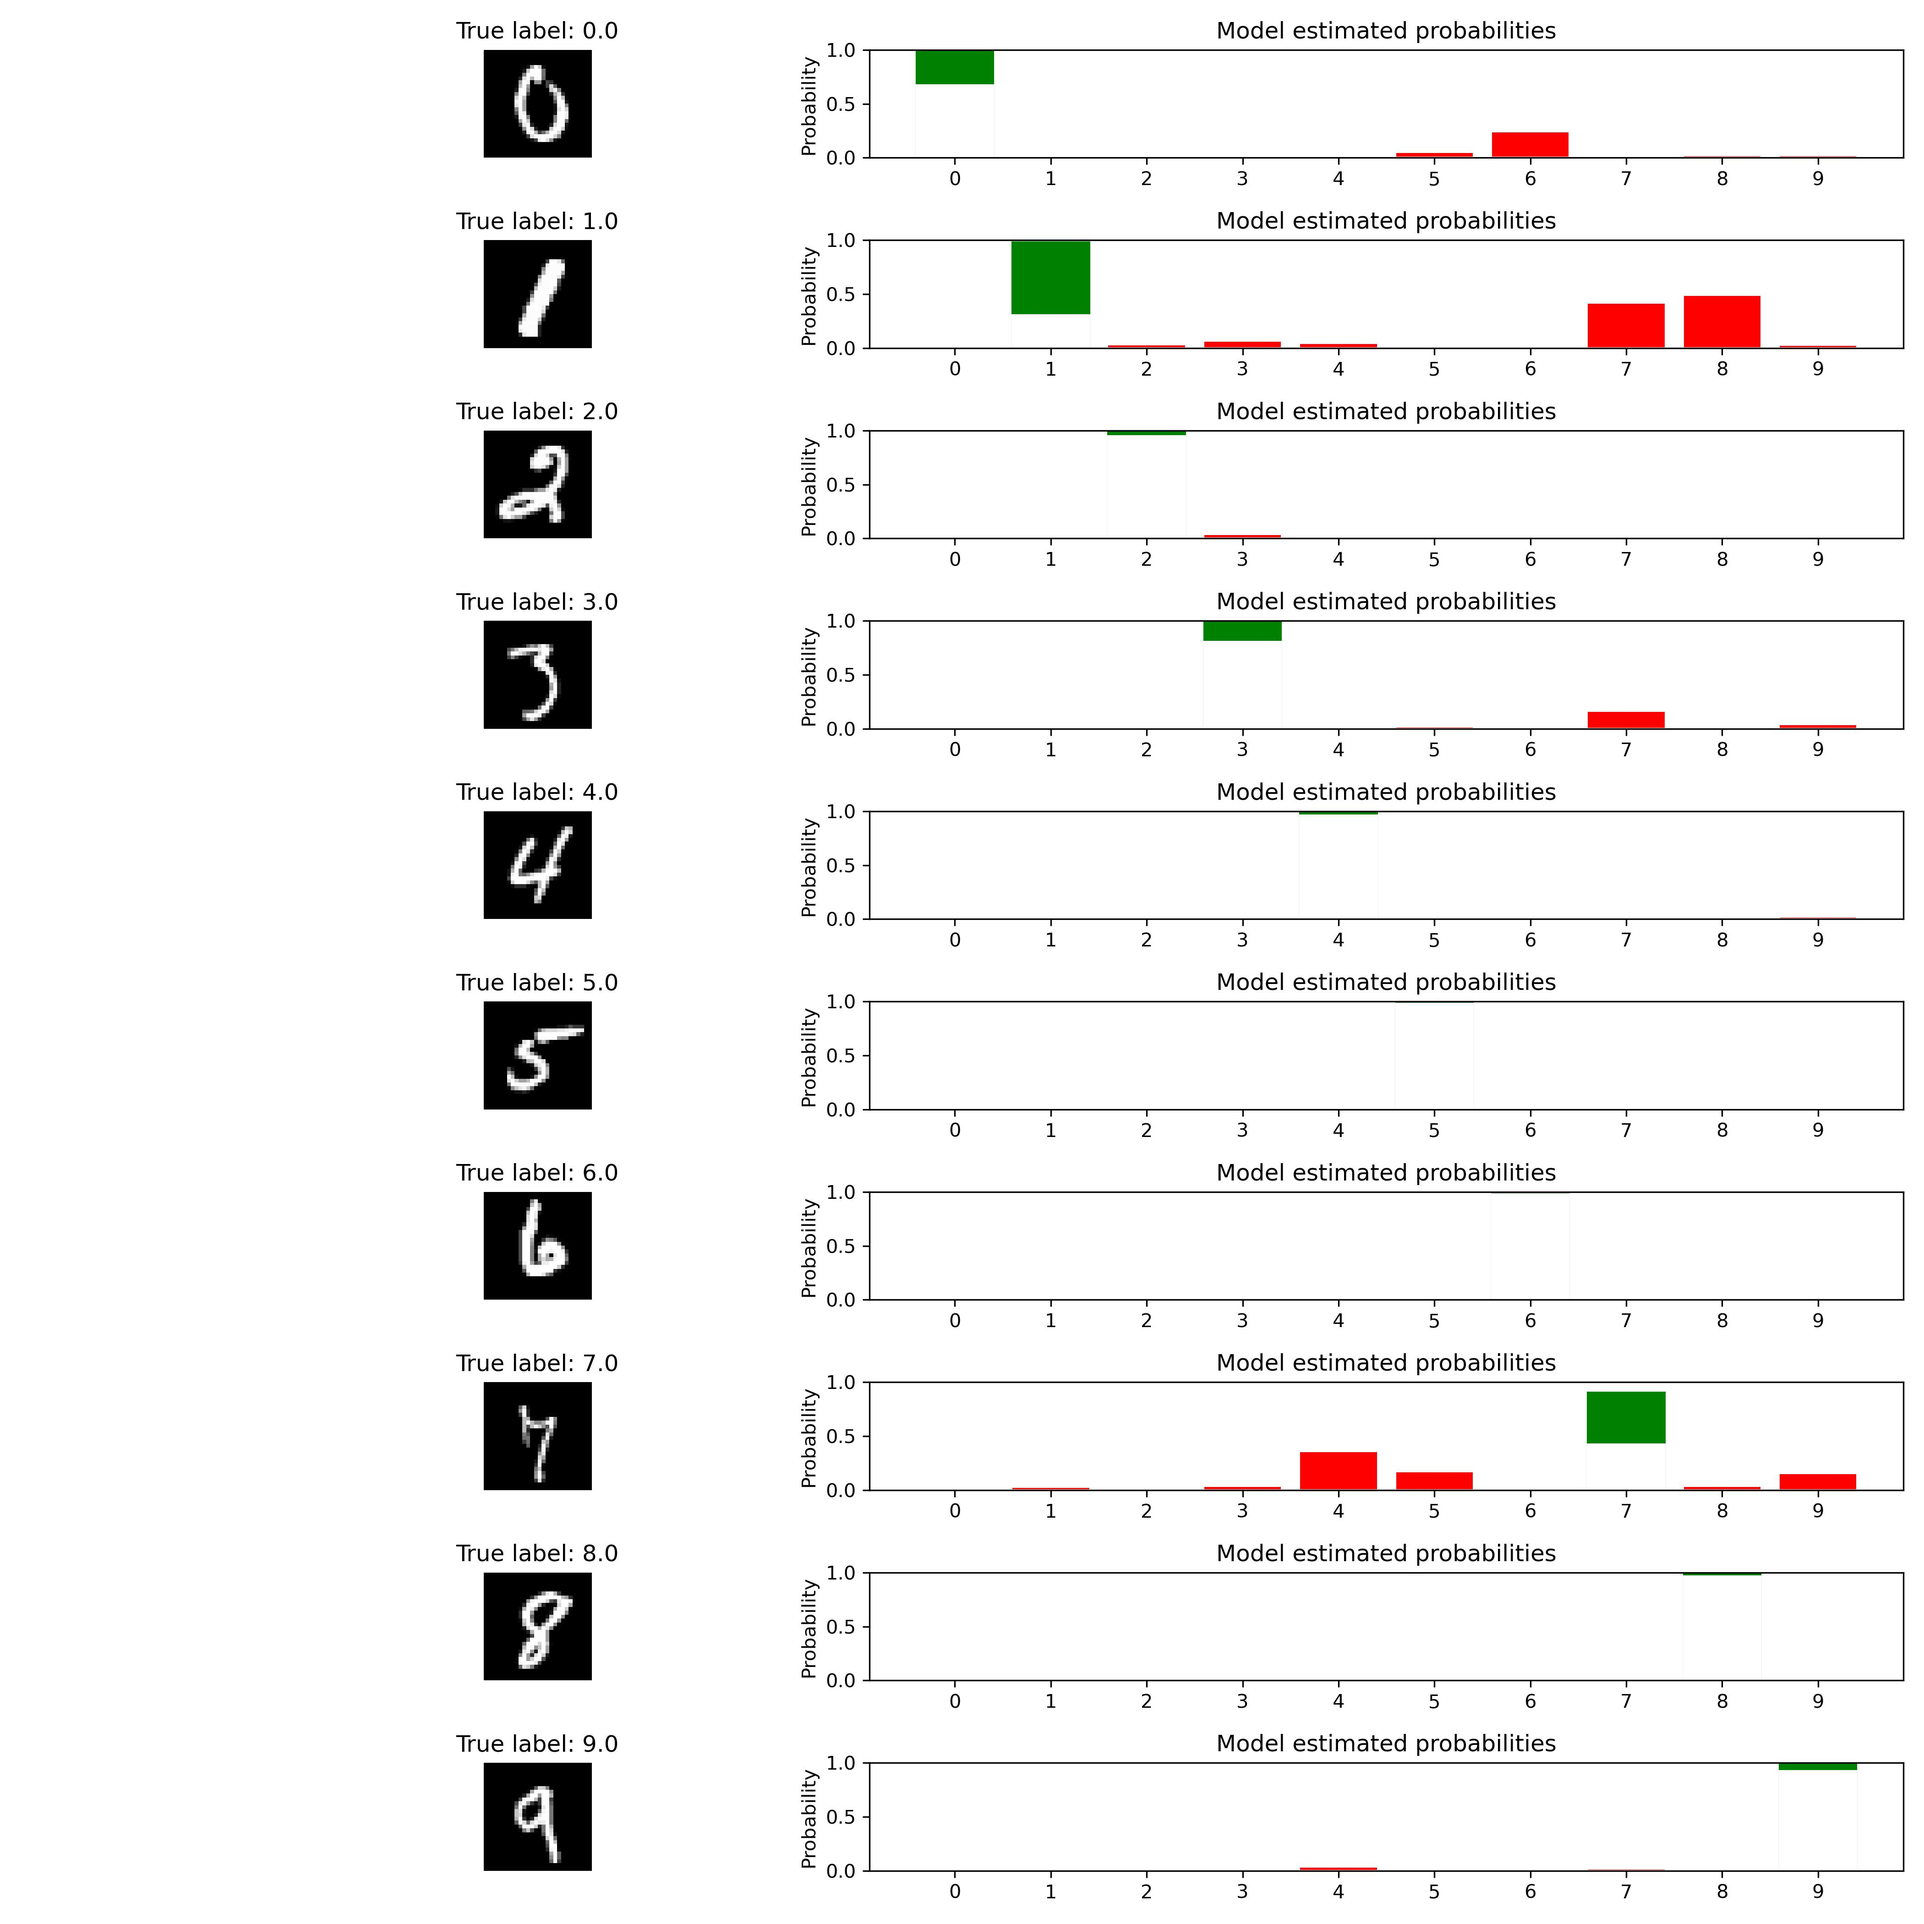
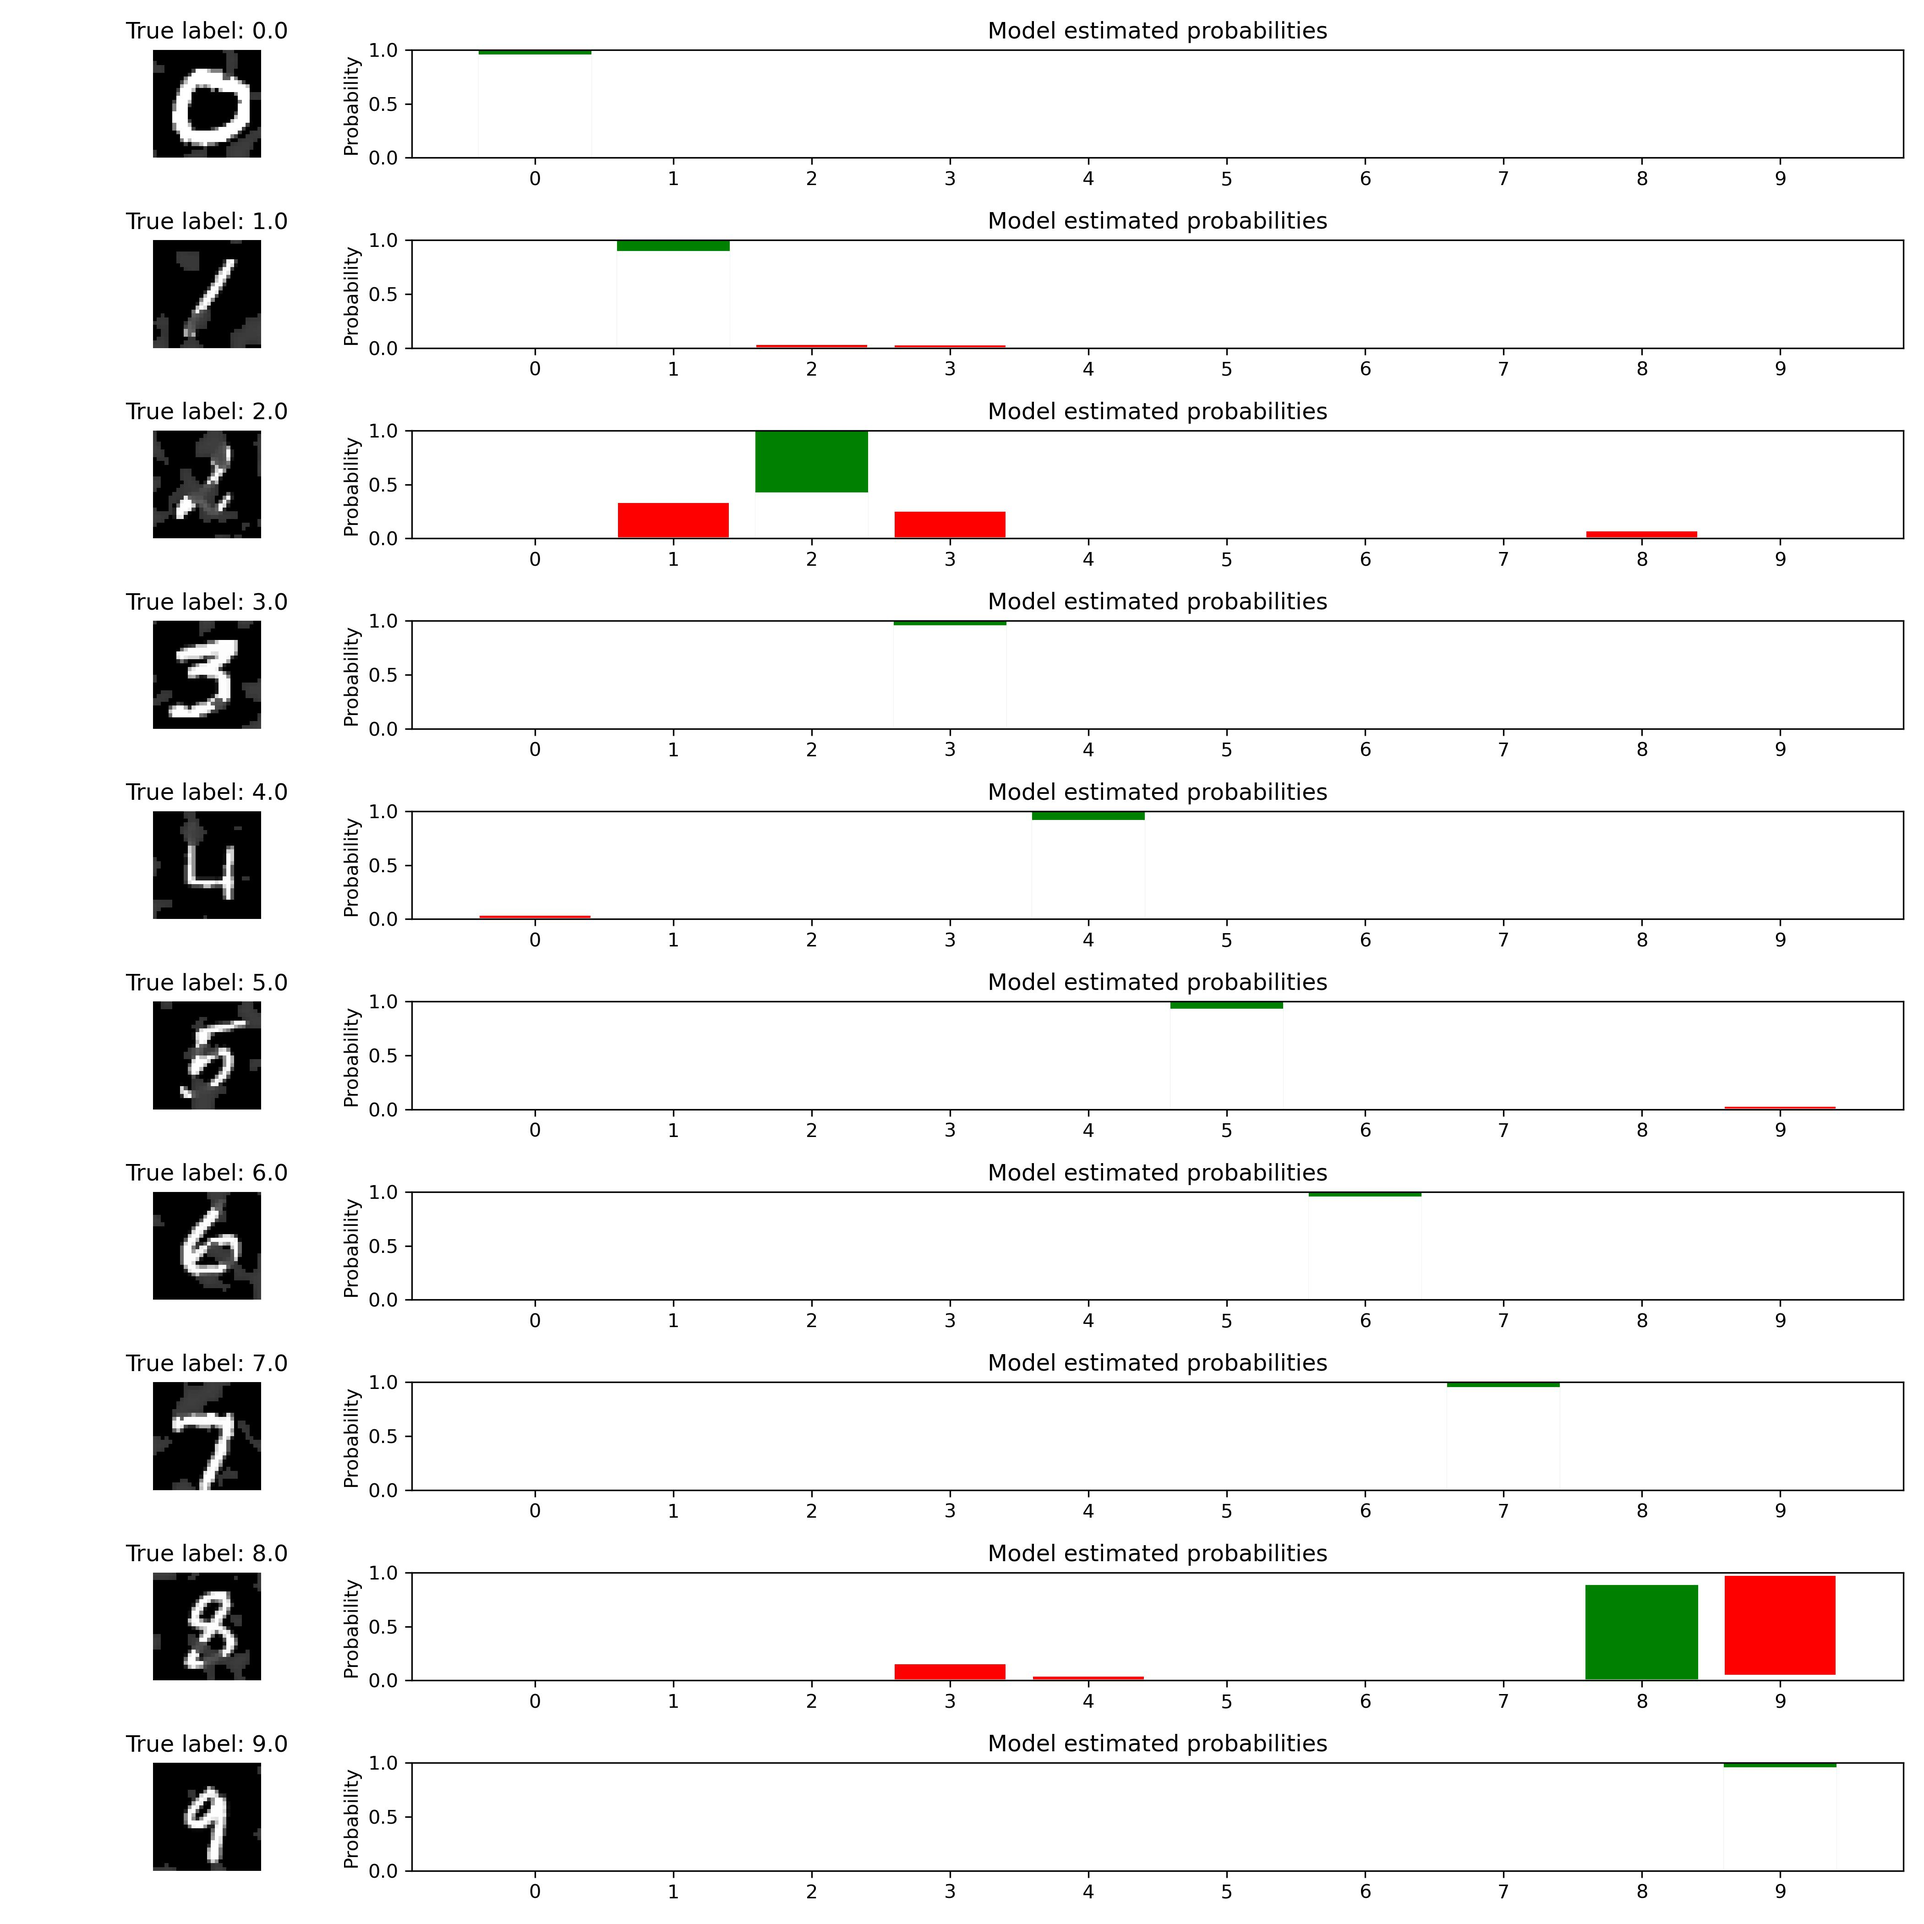
added MNIST_C plots

diff --git a/src/BayesianCNN_VI.py b/src/BayesianCNN_VI.py
@@ -212,13 +212,10 @@ def sgd_update(
     return aprx_posterior, opt_state
 
 
-with open("data/mnist_train.pickle", "rb") as file:
-    train = pickle.load(file)
-with open("data/mnist_test.pickle", "rb") as file:
-    test = pickle.load(file)
-
-x_train, y_train = train["image"] / 255, train["label"] * 1.0
-x_test, y_test = test["image"] / 255, test["label"] * 1.0
+x_train = np.load("data/mnist_train_labels.npy") / 255
+y_train = np.load("data/mnist_train_images.npy") * 1.0
+x_test = np.load("data/mnist_test_labels.npy") / 255
+y_test = np.load("data/mnist_test_images.npy") * 1.0
 
 
 def get_batches(batch_size: int = 100):
@@ -269,7 +266,7 @@ for epoch in range(1, EPOCHS + 1):
             key=next(rng_seq),  # type: ignore
         )
 
-    if epoch % 10 == 0:
+    if epoch % 5 == 0:
         # train_metrics = calc_matrics(
         #     dist=aprx_posterior,
         #     images=x_train,
@@ -292,8 +289,11 @@ for epoch in range(1, EPOCHS + 1):
             print(f"{k}: {v}")
         print("\n")
 
+    x_test = np.load("data/mnist_c_test_images.npy") / 255
+    y_test = np.load("data/mnist_c_test_labels.npy") * 1.0
 
 # Plot images
+np.random.seed(2093)
 imgs = [np.random.choice(np.where(y_test == i)[0]) for i in range(10)]
 sample_images = x_test[imgs, ...]
 true_labels = y_test[imgs, ...]
@@ -308,7 +308,7 @@ fig, axes = plt.subplots(
     nrows=num_images,
     ncols=2,
     figsize=(14, 14),
-    # gridspec_kw={"width_ratios": [2, 4]},
+    gridspec_kw={"width_ratios": [1, 4]},
 )
 for i in range(sample_images.shape[0]):
     image = sample_images[i]
@@ -330,12 +330,11 @@ for i in range(sample_images.shape[0]):
     bar = ax2.bar(np.arange(10), pct_97p5, color="red")
     bar[int(true_label)].set_color("green")
     ax2.bar(
-        np.arange(10), pct_2p5 - 0.02, color="white", linewidth=1, edgecolor="white"
+        np.arange(10), pct_2p5 - 0.05, color="white", linewidth=1, edgecolor="white"
     )
     ax2.set_xticks(np.arange(10))
     ax2.set_ylim([0, 1])
     ax2.set_ylabel("Probability")
     ax2.set_title("Model estimated probabilities")
 fig.tight_layout()
-# plt.show()
 plt.savefig("plots/MNIST.jpg", dpi=300)
